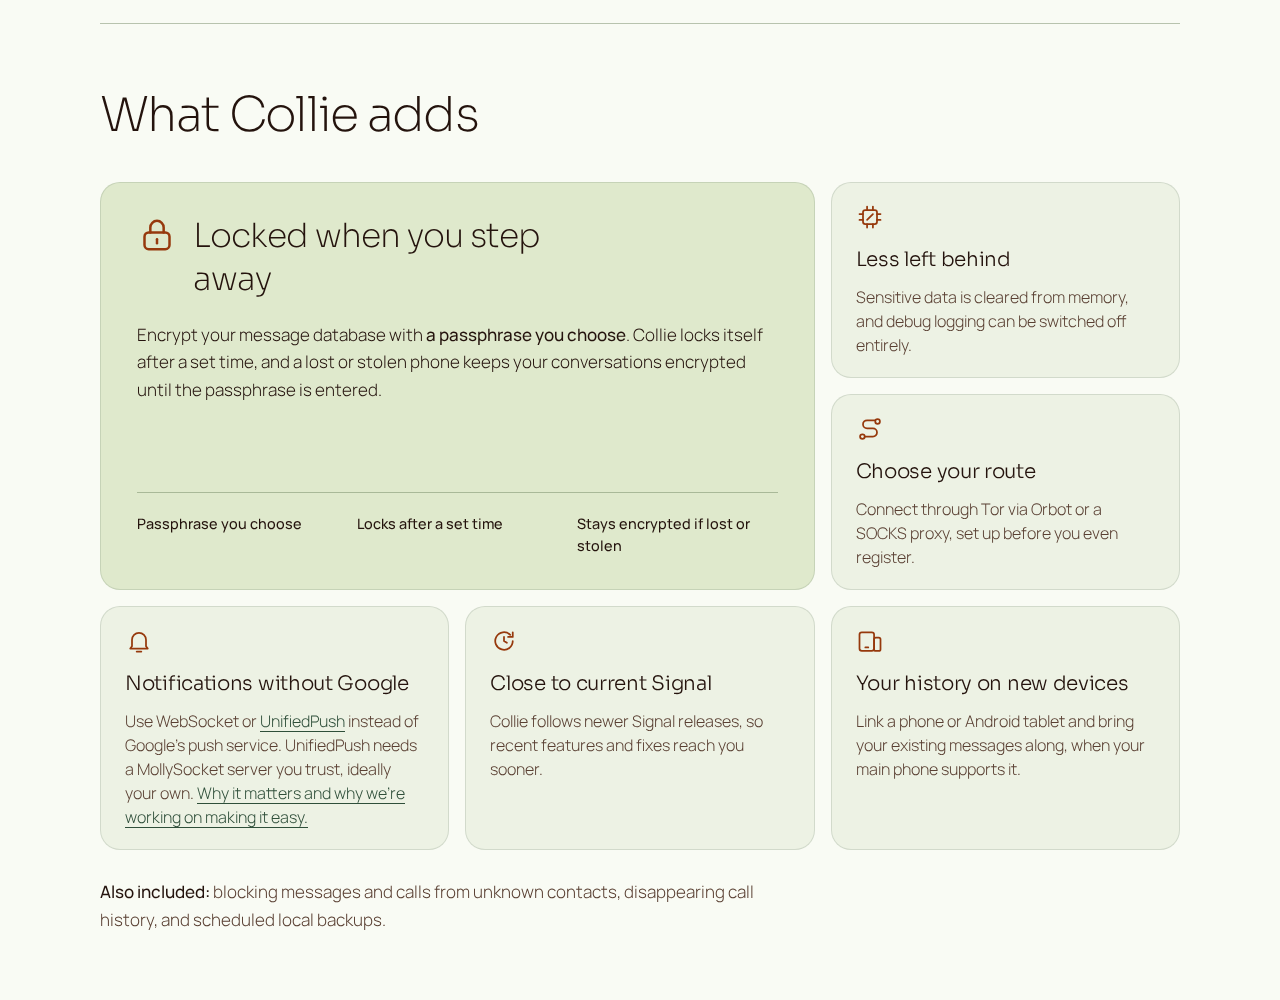
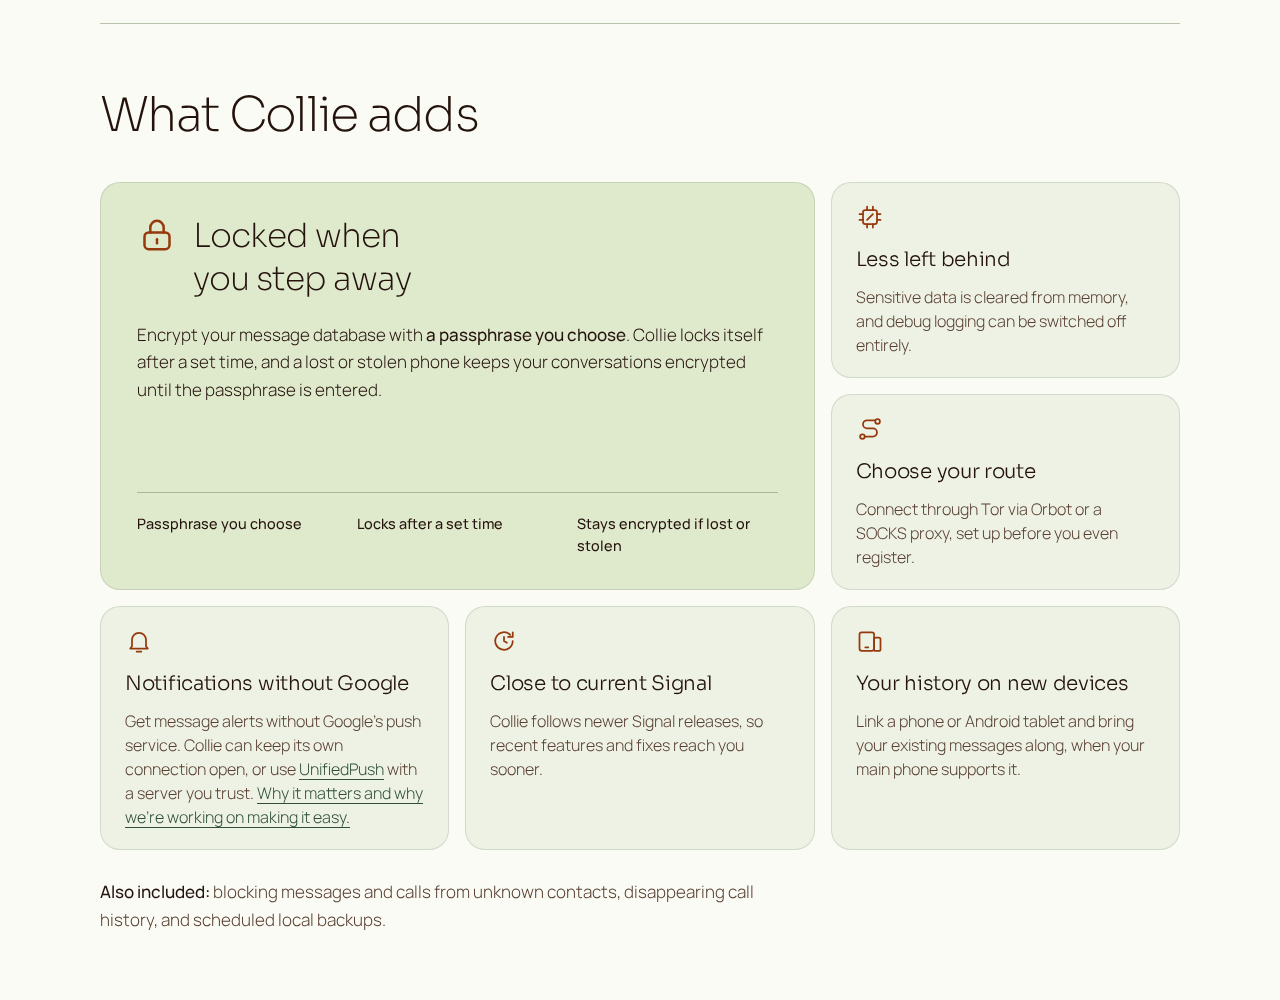
Record final readable-alert and heading proof
Refresh four feature views and the two Upcoming views after moving the trusted-server fact. Keep actual viewport, wrap, geometry and source-verification evidence with the candidate.

Layer: website

Changed region(s): [[0.0938, 0.713, 0.3438, 0.837], [0.1562, 0.248, 0.3125, 0.31], [0.3125, 0.217, 0.4375, 0.248]]

diff --git a/docs/screenshots/pr-95/README.md b/docs/screenshots/pr-95/README.md
@@ -1,6 +1,6 @@
 # Current Collie website review set
 
-Implementation source is signed `4a954f19b0b02056a5bce33d5d3515cbeb9bd308`; review the containing evidence commit as one candidate. Fresh native assets remain in `555fff83a6b7e8f5b8de89f522859f250a166b5f`. No score is supplied by the implementation owner.
+Implementation source is signed `b7b32031a75c23ec63a4bd62780e473beda4e245`; review the containing evidence commit as one candidate. Fresh native assets remain in `555fff83a6b7e8f5b8de89f522859f250a166b5f`. No score is supplied by the implementation owner.
 
 ## Current affected views
 
@@ -13,7 +13,7 @@ Implementation source is signed `4a954f19b0b02056a5bce33d5d3515cbeb9bd308`; revi
 | Desktop features | [features-desktop-light.png](features-desktop-light.png) | 1280 × 1000 |
 | Unchanged tablet features | [features-tablet-light.png](features-tablet-light.png) | 768 × 1300 |
 
-These six are actual browser renders of the existing build HTML, CSS, embedded original fonts and image bytes in a fixed-size iframe via T3 `html_preview`. They are **source renders**, not live-tab screenshots. Only resource URLs are embedded; a capture script waits for fonts and scrolls to the requested existing section. No page layout, content, colors or assets are reconstructed or changed. Visible images reported loaded, fonts reported loaded, and actual iframe widths matched all four requested widths. This renderer uses overlay scrollbars and DPR 1; its usable width equals its viewport width. The last live T3 browser reserved 15px for a scrollbar and used DPR 2. Both measurements are reported separately below. Current phone features at 320/390, tablet features at 768 and desktop hero at 1280 are byte-for-byte identical to 2917bdc27ad5 in the same renderer. Desktop feature text reflow is intentionally different.
+These six are actual browser renders of the existing build HTML, CSS, embedded original fonts and image bytes in a fixed-size iframe via T3 `html_preview`. They are **source renders**, not live-tab screenshots. Only resource URLs are embedded; a capture script waits for fonts and scrolls to the requested existing section. No page layout, content, colors or assets are reconstructed or changed. Visible images reported loaded, fonts reported loaded, and actual iframe widths matched all four requested widths. This renderer uses overlay scrollbars and DPR 1; its usable width equals its viewport width. The last live T3 browser reserved 15px for a scrollbar and used DPR 2. Both measurements are reported separately below. The four current feature views are freshly rendered after the localized notification wording and balanced heading changes; card bounds/facts remain unchanged. Intro-only appearance is unchanged, but any old lead-heading pixels at the bottom of about-mobile.png/about-narrow-light.png are superseded by these feature views.
 
 ## Current remaining key views
 
@@ -39,7 +39,7 @@ Exported hero pixels match source colors without recoloring: at (120,590), insid
 
 Exact capture-helper source is retained in [render-source.py.txt](render-source.py.txt). It reads the existing static build, embeds original resources, wraps it in a fixed-size iframe and logs readiness/position evidence. Invocation was `python3 render-exact.py WIDTH HEIGHT SECTION`, followed by T3 `html_preview` with the resulting exact-render.html path, matching width and light/dark appearance. PNG data was saved directly without processing. Sections are existing IDs, or hero/phones/footer for their existing class selectors.
 
-Current affected views (desktop feature, community desktop/390/320, phone curves 390/320 and phone page tops 390/320) are freshly rendered from signed 4a954f19b0b0. Other key source renders retain 2917bdc27ad5 provenance; their own component appearance is unchanged. Feature phone 320/390 and tablet 768 renders, plus desktop hero 1280, were rendered again and their PNG bytes match 2917 exactly. Downloads/footer and roadmap retain the existing approved component source; community type changes only move them lower in the document.
+Current feature views at 320/390/768/1280 and Upcoming views at 1280/light and 390/dark are freshly rendered from signed b7b32031a75c. Other source renders retain 94dbe9f6f2eb or 2917bdc27ad5 provenance and their component source is unchanged. Historical same-byte comparisons described below apply before the final localized copy/heading changes. Current feature views are authoritative for the notification text and heading wraps.
 
 Supporting older live captures retain c2a7b7c647de24fa50185f84b29fe141aaa6d931 provenance. Menu, narrow header, desktop introduction, dark desktop hero and Obtainium appearance remain unchanged. **mobile-dark.png and community-narrow-dark.png are historical and superseded** by current mobile-light.png, hero-narrow-light.png, community-mobile-dark.png and community-narrow-light.png; do not use them to judge current curve/hierarchy. Older live exports can shift orange into pink. Current key source renders preserve source colors. Live screenshot/recording transport timed out across callers and reported an unavailable automation host. No browser was installed and no system security policy changed.
 
@@ -51,7 +51,11 @@ Supporting older live captures retain c2a7b7c647de24fa50185f84b29fe141aaa6d931 p
 | Matrix/forum do not sufficiently outrank help subheads | Valid; titles 18.4px vs help 16.8px (1.095×), icons 28px. | Titles 22px (1.31× help), icons 40px without shrink; Help weight 400. Copy and underlined links preserved. |
 | Phone shadow spills onto cream | Valid; old 390 center y465 RGB 208/210/204 and y480 RGB 236/238/231. | Phone-only curve stacking paints cream above shadows. Full-width40px strips now uniformly RGB 249/251/244: 390 y487–526, 320 y417–456, after antialiased edge. Desktop hero PNG unchanged. |
 
-Optional notification spacing was left unchanged to preserve the compact feature list. Roadmap preamble and installation copy were retained. No native run occurred; optional real offline demo imagery awaits explicit disk-WARN approval. No synthetic conversation image was fabricated.
+The notification action retains its existing spacing. The compact row now says: “Get message alerts without Google's push service. Collie can keep its own connection open, or use UnifiedPush with a server you trust.” The UnifiedPush anchor and exact requested why sentence/link are unchanged. Source verification: IncomingMessageObserver.kt documents keeping the incoming-message WebSocket open; ApplicationContext.java switches WebSocket/UnifiedPush; MollySocketRepository.kt connects to the configured server.
+
+The existing Upcoming sentence changed narrowly from “UnifiedPush lets you choose who delivers your notifications, but setup still takes extra steps.” to “UnifiedPush lets you choose who delivers your notifications, but currently needs a trusted MollySocket server.” The planned disclaimer, list generation and URLs are byte-identical. The technical setup fact is available at the same why-link target, without naming MollySocket in the compact feature row.
+
+The heading balances as “Locked when” / “you step away” at all four checked widths. At320 this preserves the earlier wrap. No card/facts/padding changes. Fourteen tests and diffcheck pass; every render reports actual width, loaded fonts/visible images and no overflow. The 320 five-item region is 24px taller from the localized wording; 390 remains 566.69px. No native run occurred; authentic offline demo imagery awaits explicit disk-WARN approval.
 
 ## Product requirements to preserve
 
@@ -65,13 +69,15 @@ Plans come from the existing `upcoming-planned-features` Discussions category, r
 
 ## Changes in this candidate
 
-The roadmap renderer maps stable discussion numbers to concise display titles. Unknown titles retain their wording after removing editorial prefixes such as High Priority or bracketed tags. Escaping happens after display-title selection. A separate Priority badge comes only from the label, never title text. All eight discussion URLs are unchanged. Priority title weight is 600; ordinary plan titles are 500. The two-column grid reads across rows; mobile uses one column. The notifications introduction and italic planned-work disclaimer are unchanged. The gap from the roadmap follow-up links to the community heading is now 64 CSS px.
+The roadmap renderer maps stable discussion numbers to concise display titles. Unknown titles retain their wording after removing editorial prefixes such as High Priority or bracketed tags. Escaping happens after display-title selection. A separate Priority badge comes only from the label, never title text. All eight discussion URLs are unchanged. Priority title weight is 600; ordinary plan titles are 500. The two-column grid reads across rows; mobile uses one column. The italic planned-work disclaimer is unchanged; the notification introduction now names the current trusted MollySocket requirement as described above. The gap from the roadmap follow-up links to the community heading is now 64 CSS px.
 
 Only below 600px, the five secondary feature cards now form a compact list: 40px icons sit beside titles, body text aligns beneath titles, and the existing rule color separates items. Their card backgrounds, outlines, radii and inner padding are removed. Every word and link is retained. The encryption lead is unchanged. The intro heading is 24px against the 32px feature heading (75%), with the source/security disclosure visible in both introduction captures. The compact-list change remains phone-only; the latest separate desktop explanation reflow is described above.
 
 The lead feature retains its desktop two-column/two-row position and featured surface. Its 40px icon sits beside the heading; the approved explanation remains. Three short facts restate that explanation: Passphrase you choose; Locks after a set time; Stays encrypted if lost or stolen. A hairline separates the facts, and their row sits at the bottom. Smaller cards use one deliberate icon-to-heading gap rather than stacked padding and automatic margins. At phone widths up to 600px, the repeated facts and their divider are hidden; the approved paragraph already says the same thing. Wider screens retain the three facts. Phone spacing from the upcoming introduction to the italic note is 12px, and from that note to the list is 22px. No wording in either paragraph changed.
 
 The narrow header is now a page-level sibling of the hero, so hero overflow cannot prevent persistent navigation. At 860px and below it is 56px high and sticky, with brand, Menu and Get Collie. Menu exposes the existing five section links in desktop order. Enter opens it; Escape closes it and returns focus; choosing a link or clicking outside closes it. Anchored sections have 56px scroll margin. Below 360px the wordmark is 16px rather than 18.4px, adding breathing room while retaining the 56px header, logo and Get Collie. At 320px the wordmark-to-Menu text gap is 19.16px, compared with 12.30px before this refinement. The desktop header keeps its existing behavior. There is no menu animation to suppress in reduced-motion mode; existing reduced-motion rules also disable smooth scrolling and hero motion.
+
+The featured heading uses `text-wrap:balance` with the existing 17ch cap, without changing font size or card geometry.
 
 The source/security disclosure keeps its native underlined, focusable 44px summary. Its chevron now follows the label with an 8px gap rather than sitting at the far edge.
 
@@ -146,7 +152,7 @@ The following live-T3 table predates the latest community typography change and 
 
 These live checks used actual `innerWidth`. At 390px, the five-item region shrank from 978px to 614.73px; at 320px, from 1150px to 732.62px. This counts first secondary item top through last item bottom, including gaps. The encryption lead remains exactly 279.73px at 390 and 306.93px at 320. Every title and body starts at x68, to the right of the icon at x16; wrapped titles never flow below the icon. The notification action measures 291×48px at 390 and 221×48px at 320. All six card rectangles match the previous source exactly at 768 and 1280.
 
-The source-render environment has no reserved scrollbar. At widths 320/390/768/1280, usable widths are likewise 320/390/768/1280, with no horizontal overflow and loaded fonts. Five-item heights are 661.63/566.69/644/668px; downloads start at 5285.75/4785.45/4197.83/3689.45px. This is an explicit environment difference, not a replacement for live measurements. Intro/feature headings are 24/32px on phones, 32/32px at 768, and 44/48px at1280. Phone 320/390 and tablet 768 feature PNGs still match 2917 exactly; desktop 1280 feature paragraphs now use full width while card bounds remain unchanged. The intro disclosure is visible in both phone introduction renders.
+The source-render environment has no reserved scrollbar. At widths 320/390/768/1280, usable widths are likewise 320/390/768/1280, with no horizontal overflow and loaded fonts. Five-item heights are 685.63/566.69/644/668px; downloads start at 5337.80/4785.45/4197.83/3689.45px. This is an explicit environment difference, not a replacement for live measurements. Intro/feature headings are 24/32px on phones, 32/32px at 768, and 44/48px at 1280. Current feature PNGs show the localized copy and balanced title; card bounds/facts remain unchanged. The 320 notification copy uses one additional 24px line. The intro disclosure is visible in both phone introduction renders.
 
 Native keyboard Tab from the brand reached Menu, Enter changed `aria-expanded` to true, and Escape restored false with focus on Menu. Outside-click closing passed. Each of the five actual menu links was clicked at both 390px and 768px. Every menu closed, and all headings landed below the header: heading tops ranged from 88.01px to 134.22px, with the header bottom at 56px. These position checks used automatic scrolling in the owned test tab to avoid measuring a smooth-scroll midpoint; source motion rules were unchanged. That Menu keyboard evidence applies to the unchanged navigation markup and JavaScript. In this scoped pass, the native summary was focusable and DOM activation opened and closed it. Later pointer transport timed out, and an instrumented Enter attempt produced no DOM keydown or keyup events; no fresh trusted-keyboard or pointer result is claimed from those failed transport calls.
 
@@ -171,6 +177,6 @@ Fourteen website tests pass, including five added checks for stable mappings, pr
 
 ## Remaining review questions
 
-Mobile hero length remains deliberately outside this pass: its copy appears before the phones, so the fresh image is below the first fold on narrow screens. Community remains lower in the page but has hero and persistent-menu entry points. Desktop/tablet six-card topology is unchanged; phones retain the featured card followed by five visible list items. The notifications explanation is technical because it states real setup requirements, and the user asked to preserve that paragraph. No real conversation capture was supplied. Review these as honest remaining design tradeoffs; do not infer approval from passing tests or from this implementation note.
+Mobile hero length remains deliberately outside this pass: its copy appears before the phones, so the fresh image is below the first fold on narrow screens. Community remains lower in the page but has hero and persistent-menu entry points. Desktop/tablet six-card topology is unchanged; phones retain the featured card followed by five visible list items. The notification feature now uses plain connection/trusted-server wording; the exact server requirement is in Upcoming. No real conversation capture was supplied. Review these as honest remaining design tradeoffs; do not infer approval from passing tests or from this implementation note.
 
 Impeccable 4.1.1 was already installed for Codex under `~/.agents/skills/impeccable`. Its context, layout and craft-floor guidance was used. Canonical documentation confirms that path and `$impeccable`; nothing was installed or downloaded. Source, imagery and validation limits are recorded for independent review at the containing commit.

diff --git a/docs/screenshots/pr-95/completion-audit.md b/docs/screenshots/pr-95/completion-audit.md
@@ -7,7 +7,7 @@ This is a factual requirement audit, not a design rating. Source and current ima
 | Ordinary messenger audience and skimming | Patch-reading pitch removed; mostly approved factual paragraphs retained. Intro is one reading group immediately after hero; phone feature recap removed. |
 | Signal/Molly consolidation | Intro contains compatibility, foundations and optional source/security details. Side by side and account/two-app explanations are absent. The installation verification still names the package as before. |
 | Community/help | Matrix and Discussions have distinct chat/forum icons and visible actions. Help the project remains a separate bug-report/donation group. |
-| Exact notification link and emphasis | Required sentence still links to #upcoming; selective bold/italic and underlined actions remain. |
+| Exact notification link and emphasis | Required sentence/UnifiedPush anchor remain unchanged. Feature now describes alerts/connection plainly; precise trusted MollySocket requirement is at Upcoming. Selective emphasis/underlined links remain. |
 | Discussion-generated plans | Existing category only; eight plans in the supplied snapshot, label-priority first, separate badge, explicit planned disclaimer. Daily workflow uses 06:17 UTC and read permissions. Discussion106 wording was checked against the public source; URL unchanged. |
 | Installation options | Obtainium/F-Droid share primary styling; Recommended appears only once; manual APK remains secondary. Website's actual CTA reaches its local handoff; README retains absolute Collie URL. GitHub update source, manual collie.im/#get fallback and tested nested-JSON filter are unchanged. |
 | Fresh native screenshot | Fastlane PNG and website WebP share the new 06:53 API 35 capture. Matching-APK centering test passed unskipped; actual title/button geometry gives equal 450px clearance. Security preference restoration passed and subsequent window SECURE flag was verified. No fabricated chat image. |
@@ -22,6 +22,8 @@ This is a factual requirement audit, not a design rating. Source and current ima
 
 | Finding | Disposition/confidence | Scoped result |
 | --- | --- | --- |
+| Notification terminology | Valid, high | Plain connection/trusted-server feature copy verified against native source. Exact why/UnifiedPush anchors retained; MollySocket requirement moved to existing Upcoming sentence. |
+| Featured heading orphan | Valid, high | text-wrap:balance yields Locked when / you step away at 320/390/768/1280;320 wrap unchanged, no card/facts change. |
 | Desktop lead body cap | Valid, high | Above 860px body 460 to 640.66px; card remains 408px; text-to-card-edge 51.66px. |
 | Community primary hierarchy | Valid, high | Titles 22px vs help 16.8px, icons 40px; lighter Help, unchanged copy/links. |
 | Phone curve shadow spill | Valid, high | Full-width 40px bands are uniformly 249/251/244 at 390/320; desktop hero unchanged. |
@@ -40,8 +42,8 @@ PR102 head is signed 614ed0f18d5301496fa1f86a756e64cb07e4910b. Its code matches 
 
 ## Remaining completion steps outside this frozen review packet
 
-- Independent reviews of this exact candidate are pending; no prior scores or desired grade are supplied here.
-- PR95 remote head is 555fff83a6b7e8f5b8de89f522859f250a166b5f, including the fresh native assets. The final design candidate has not been pushed. After acceptance/push, its description needs the current screenshot gallery, 14-test count and precise selected-contrast wording; the original blanket all-text AA statement is stronger than the recorded evidence.
+- Independent design approval is not claimed. Authentic everyday-messaging imagery remains absent; optional offline capture awaits explicit user disk-WARN approval.
+- PR95 contains the fresh native asset correction 555fff83a6b7e8f5b8de89f522859f250a166b5f. Its description uses immutable published candidate images, 14-test scope and selected contrast evidence; no blanket all-text AA claim is supported.
 - Public deployment and actual Obtainium app installation/import have not been performed in this website lane. The local CTA/handoff was read end to end. No default-branch push, merge or production deployment occurred.
 
 The footer disclaimer is byte-for-byte unchanged from the consolidation base. No source, screenshot or documentation updates should be made while this candidate is being scored.
